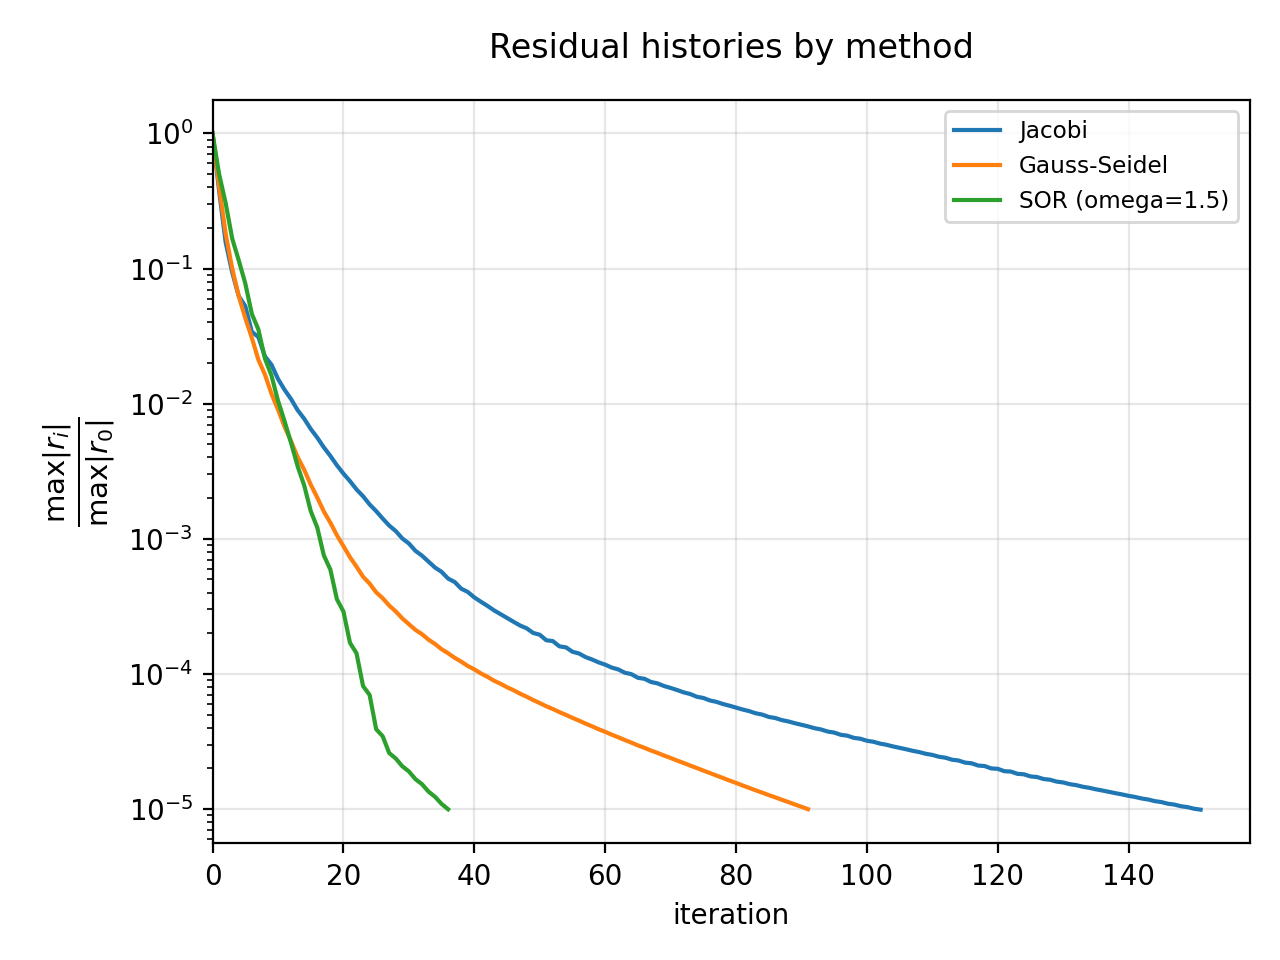
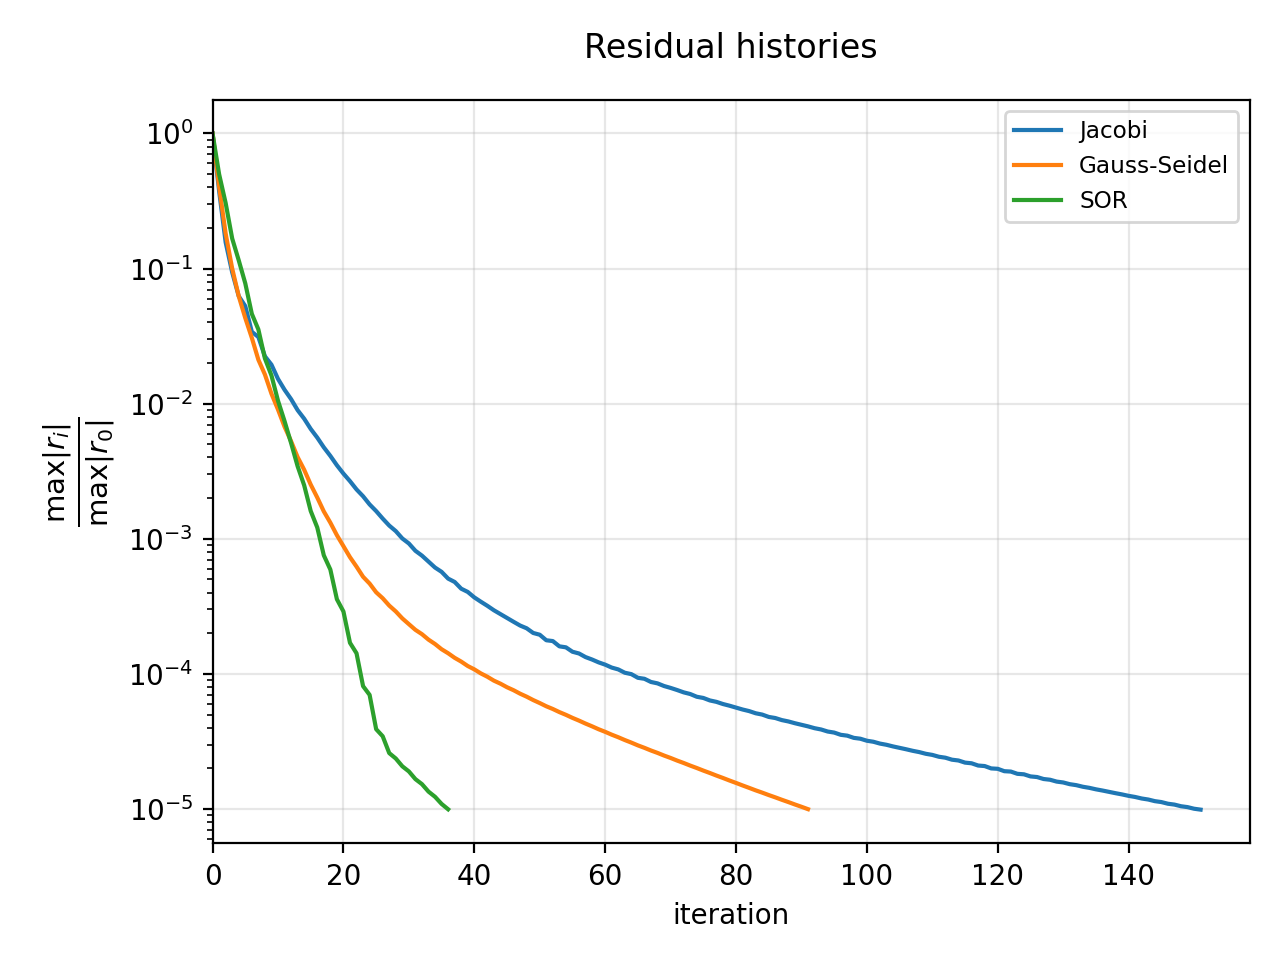
手法比較プロット整理

Changed region(s): [[0.7188, 0.125, 0.9688, 0.2188], [0.375, 0.0312, 0.7812, 0.0625]]

diff --git a/数値解析学/後半/report/experiments/exp_method_compare.py b/数値解析学/後半/report/experiments/exp_method_compare.py
@@ -24,7 +24,8 @@ def _methods():
     return [
         ("Jacobi", SolveMethod.JACOBI, None),
         ("Gauss-Seidel", SolveMethod.GAUSS_SEIDEL, None),
-        ("SOR (omega=1.5)", SolveMethod.SOR, 1.5),
+        # ("SOR (omega=1.5)", SolveMethod.SOR, 1.5),
+        ("SOR", SolveMethod.SOR, 1.5),
     ]
 
 
@@ -62,10 +63,14 @@ def main() -> int:
     fig0, ax0 = plt.subplots()
     for label, result in results:
         ax0.plot(result.residual_norm_history, label=label)
+    line_colors = {
+        label: line.get_color()
+        for (label, _), line in zip(results, ax0.lines, strict=True)
+    }
     ax0.set_yscale("log")
     ax0.set_xlabel("iteration")
     ax0.set_ylabel(r"$\frac{\max |r_i|}{\max |r_0|}$", fontsize=15)
-    ax0.set_title("Residual histories by method", pad=15)
+    ax0.set_title("Residual histories", pad=15)
     ax0.set_xlim(left=0)
     ax0.grid(True, alpha=0.3)
     ax0.legend(fontsize="small")
@@ -73,23 +78,23 @@ def main() -> int:
     fig0.savefig(output_dir / "residual_histories.png", dpi=200)
 
     # 反復回数の比較
-    fig1, ax1 = plt.subplots(figsize=(5.5, 4))
+    fig1, ax1 = plt.subplots(figsize=(3, 4))
     labels = [label for label, _ in iterations]
     iters = [value for _, value in iterations]
-    ax1.bar(labels, iters, color="tab:blue", width=0.6)
+    ax1.bar(labels, iters, color=[line_colors[label] for label in labels], width=0.3)
     ax1.set_ylabel("iterations to convergence")
-    ax1.set_title("Iterations to convergence by method", pad=15)
+    ax1.set_title("Iterations to convergence", pad=15)
     ax1.grid(True, axis="y", alpha=0.3)
     fig1.tight_layout()
     fig1.savefig(output_dir / "iterations_by_method.png", dpi=200)
 
     # CPU time の比較
-    fig2, ax2 = plt.subplots(figsize=(5.5, 4))
+    fig2, ax2 = plt.subplots(figsize=(3, 4))
     labels = [label for label, _ in timings]
     times = [value for _, value in timings]
-    ax2.bar(labels, times, color="tab:orange", width=0.6)
+    ax2.bar(labels, times, color=[line_colors[label] for label in labels], width=0.3)
     ax2.set_ylabel("CPU time [s]")
-    ax2.set_title("CPU time by method", pad=15)
+    ax2.set_title("CPU time", pad=15)
     ax2.grid(True, axis="y", alpha=0.3)
     fig2.tight_layout()
     fig2.savefig(output_dir / "cpu_time_by_method.png", dpi=200)
